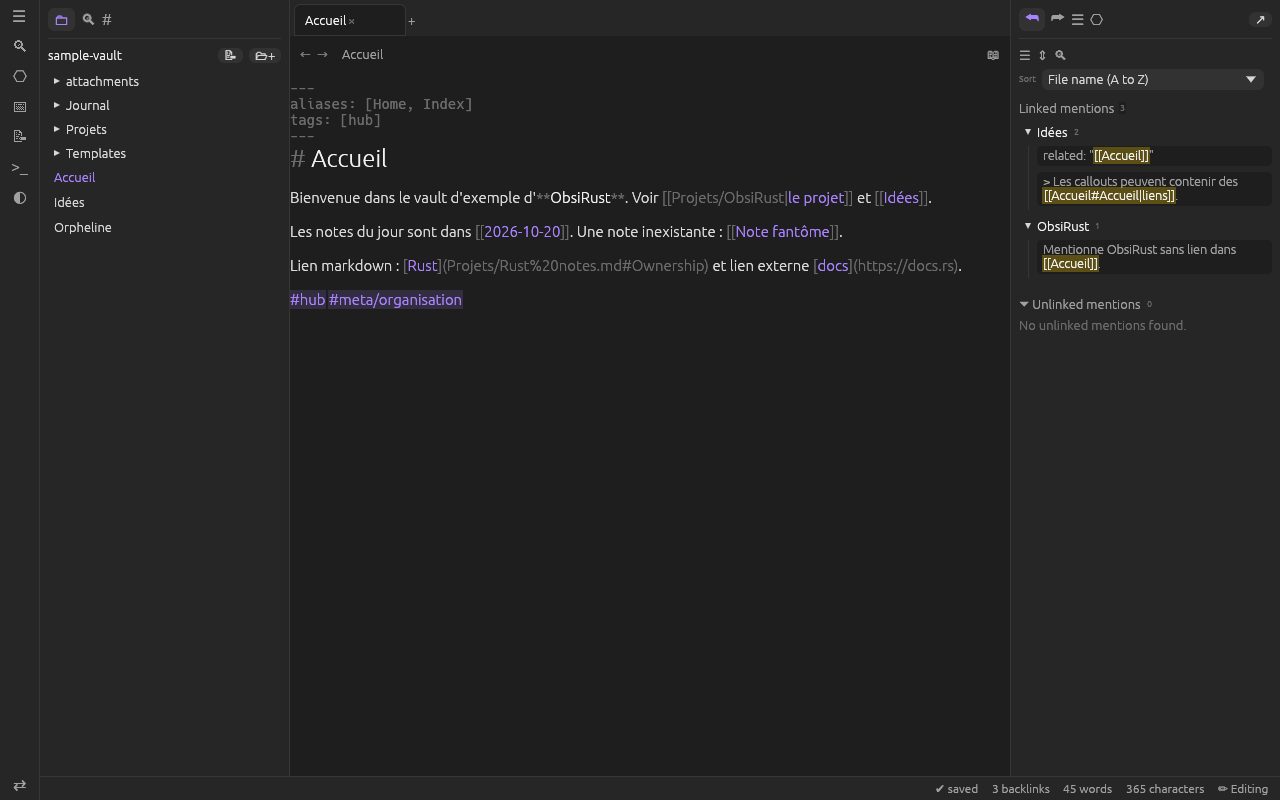
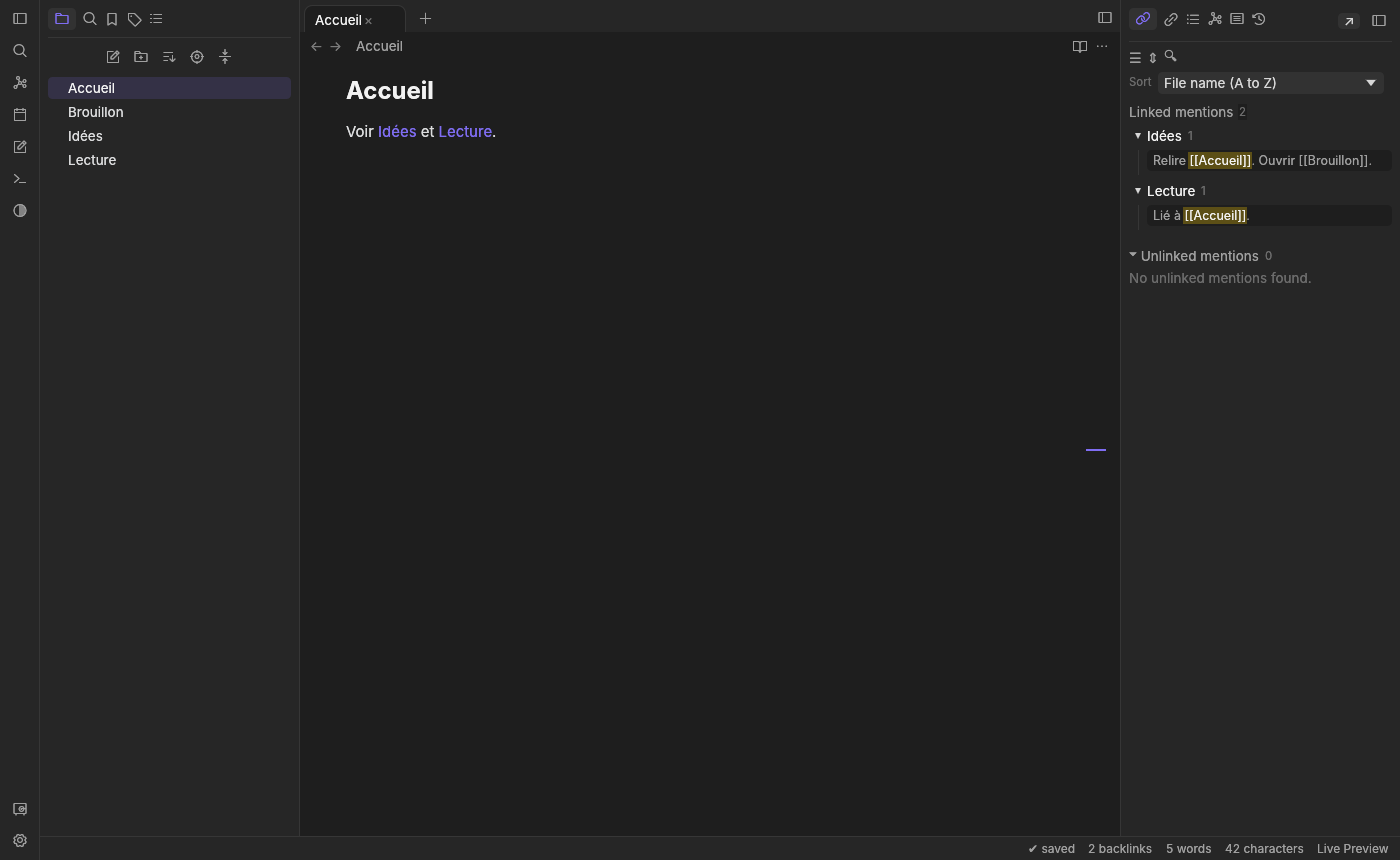
Show each feature on the home page, and retake the graph.
The home page is a sequence of blocks instead of a numbered list: a full-width capture, a mode triptych, alternating splits, the typed terminal, then a stamped “not yet” band. Captions no longer name repository paths. The graph and linked-mentions captures come from a temporary vault with four notes, so neither Canvas nor ObsiRust appears. Download buttons stay on the Releases page because every asset name includes the version.

diff --git a/site/src/data/features.ts b/site/src/data/features.ts
@@ -138,8 +138,8 @@ export const features: Feature[] = [
         src: "/media/live-preview-light.png",
         alt: liveAlt,
         caption: {
-          fr: "Vault d’exemple, thème clair. Fichier du dépôt : `crates/oxi-app/screenshots/live-preview-light.png`.",
-          en: "Sample vault, light theme. Repository file: `crates/oxi-app/screenshots/live-preview-light.png`.",
+          fr: "Thème clair : explorateur, note Idées, mentions liées.",
+          en: "Light theme: file tree, the Idées note, linked mentions.",
         },
       },
     ],
@@ -176,10 +176,10 @@ export const features: Feature[] = [
     },
     tech: {
       fr: [
-        "La bascule est dans l’en-tête de la note. Le fondu ci-dessus alterne trois captures du même écran : `modes-live.png`, `modes-source.png`, `modes-reading.png`. Sans mouvement, les trois images restent l’une sous l’autre.",
+        "La bascule est dans l’en-tête de la note. Le fondu alterne trois captures du même écran. Sans mouvement, les trois images restent l’une sous l’autre.",
       ],
       en: [
-        "The switch sits in the note header. The fade above alternates three captures of the same screen: `modes-live.png`, `modes-source.png`, `modes-reading.png`. Without motion, the three images stay stacked.",
+        "The switch sits in the note header. The fade alternates three captures of the same screen. Without motion, the three images stay stacked.",
       ],
     },
     demo: "modes",
@@ -251,35 +251,33 @@ export const features: Feature[] = [
     },
     tech: {
       fr: [
-        "Sur la capture du graphe, un nœud s’intitule Canvas. C’est un titre de note dans cette capture, pas le tableau blanc Canvas, qui n’est pas dans l’application.",
-        "Filtres visibles sur la capture : étiquettes, pièces jointes, fichiers existants, orphelines, groupes, forces (centre, répulsion, lien, distance).",
+        "Le panneau de filtres et de forces (étiquettes, pièces jointes, fichiers existants, orphelines, groupes) est dans la vue. Sur cette capture il est fermé : on voit les quatre notes et leurs liens.",
       ],
       en: [
-        "On the graph capture, one node is titled Canvas. That is a note title in this capture, not the Canvas whiteboard, which is not in the application.",
-        "Filters visible on the capture: tags, attachments, existing files, orphans, groups, forces (center, repulsion, link, distance).",
+        "The filter and forces panel (tags, attachments, existing files, orphans, groups) is part of the view. On this capture it is closed: the four notes and their links are what show.",
       ],
     },
     shots: [
       {
         src: "/media/graph.png",
         alt: {
-          fr: "Graphe sombre : nœuds Accueil, Idées, ObsiRust, Rust notes, 2026-10-20, Note fantôme et Canvas, avec le panneau de filtres et de forces.",
-          en: "Dark graph: nodes Accueil, Idées, ObsiRust, Rust notes, 2026-10-20, Note fantôme and Canvas, with the filter and forces panel.",
+          fr: "Graphe sombre : Brouillon, Idées, Accueil et Lecture, reliés. L’explorateur liste les mêmes notes.",
+          en: "Dark graph: Brouillon, Idées, Accueil and Lecture, linked. The file tree lists the same notes.",
         },
         caption: {
-          fr: "Graphe. Fichier : `screenshots/graph.png`. Le nœud Canvas est un titre de cette capture.",
-          en: "Graph. File: `screenshots/graph.png`. The Canvas node is a title in this capture.",
+          fr: "Quatre notes, et les liens entre elles.",
+          en: "Four notes, and the links between them.",
         },
       },
       {
         src: "/media/backlinks.png",
         alt: {
-          fr: "Note Accueil et panneau Linked mentions : extraits depuis Idées et ObsiRust, bandeau à 3 backlinks.",
-          en: "Accueil note and the Linked mentions panel: excerpts from Idées and ObsiRust, status bar at 3 backlinks.",
+          fr: "Note Accueil en Live Preview, panneau Linked mentions : extraits depuis Idées et Lecture, bandeau à 2 backlinks.",
+          en: "Accueil in Live Preview, Linked mentions panel: excerpts from Idées and Lecture, status bar at 2 backlinks.",
         },
         caption: {
-          fr: "Mentions liées. Fichier : `screenshots/backlinks.png`.",
-          en: "Linked mentions. File: `screenshots/backlinks.png`.",
+          fr: "Deux mentions liées, depuis Idées et Lecture.",
+          en: "Two linked mentions, from Idées and Lecture.",
         },
       },
     ],
@@ -318,12 +316,12 @@ export const features: Feature[] = [
       fr: [
         "Tout passe par le binaire `git` du système, dans un fil à part. L’interface ne se bloque pas dessus. Les réglages du vault sont dans `.obsidian/oxinote-git.json`.",
         "Quatre cases de `.gitignore` : ignorer la configuration `.obsidian`, les pièces jointes lourdes (`*.pdf`, `*.mp4`, `*.zip`), la corbeille, l’état de l’espace de travail.",
-        "Le défilement de la première image est une animation sur la capture `git-history.png`. Sans mouvement, l’image est entière.",
+        "Le défilement de la première image est une animation sur la capture. Sans mouvement, l’image est entière.",
       ],
       en: [
         "Everything goes through the system `git` binary, on a side thread. The interface does not block on it. Per-vault settings live in `.obsidian/oxinote-git.json`.",
         "Four `.gitignore` toggles: ignore `.obsidian` configuration, heavy attachments (`*.pdf`, `*.mp4`, `*.zip`), the trash, and the workspace state.",
-        "The pan on the first image is an animation of the capture `git-history.png`. Without motion, the whole image is shown.",
+        "The pan on the first image is an animation of the capture. Without motion, the whole image is shown.",
       ],
     },
     demo: "pan",
@@ -335,8 +333,8 @@ export const features: Feature[] = [
           en: "History of Accueil: three dated vault backup commits, comparison with the current version, an added line in green, Restore this version button.",
         },
         caption: {
-          fr: "Historique d’une note. Fichier : `crates/oxi-app/screenshots/git-history.png`.",
-          en: "History of one note. File: `crates/oxi-app/screenshots/git-history.png`.",
+          fr: "Trois commits, le diff, et le bouton pour restaurer.",
+          en: "Three commits, the diff, and the button to restore.",
         },
       },
       {
@@ -346,8 +344,8 @@ export const features: Feature[] = [
           en: "Backup (Git) window: automatic backup, interval in minutes, backup on quit, message vault backup: {{date}}, gitignore toggles.",
         },
         caption: {
-          fr: "Réglages. Fichier : `crates/oxi-app/screenshots/git-settings.png`.",
-          en: "Settings. File: `crates/oxi-app/screenshots/git-settings.png`.",
+          fr: "Sauvegarde automatique, intervalle, message de commit, gitignore.",
+          en: "Automatic backup, interval, commit message, gitignore.",
         },
       },
     ],
@@ -400,8 +398,8 @@ export const features: Feature[] = [
           en: "PDF tab test.pdf, page 1 of 3, zoom 82%, Fit to width and Open in default app buttons. The Linked mentions panel lists links to this PDF.",
         },
         caption: {
-          fr: "Lecteur en onglet. Fichier : `crates/oxi-app/screenshots/pdf-tab.png`.",
-          en: "Reader in a tab. File: `crates/oxi-app/screenshots/pdf-tab.png`.",
+          fr: "Page 1, zoom, largeur de page, ouverture dans l’application du système.",
+          en: "Page 1, zoom, fit to width, open in the system app.",
         },
       },
       {
@@ -411,8 +409,8 @@ export const features: Feature[] = [
           en: "Reading note with an embedded PDF on page 2, tooltip Open test.pdf at page 2.",
         },
         caption: {
-          fr: "Embed. Fichier : `crates/oxi-app/screenshots/pdf-embed.png`.",
-          en: "Embed. File: `crates/oxi-app/screenshots/pdf-embed.png`.",
+          fr: "Le PDF embarqué s’ouvre à la page 2.",
+          en: "The embedded PDF opens on page 2.",
         },
       },
     ],
@@ -552,6 +550,56 @@ export const features: Feature[] = [
     shots: [],
   },
 ];
+
+/** Two short lines and a link label for the home blocks. */
+export const homeLines: Record<string, Record<Lang, [string, string]>> = {
+  vault: {
+    fr: ["On désigne le dossier.", "Les notes sont déjà des fichiers Markdown."],
+    en: ["Point it at the folder.", "The notes are already Markdown files."],
+  },
+  modes: {
+    fr: ["Live Preview habille le Markdown.", "Source le montre brut, Lecture le rend."],
+    en: ["Live Preview dresses the Markdown.", "Source shows it raw, Reading renders it."],
+  },
+  graph: {
+    fr: ["Les notes se posent, les liens les retiennent.", "À côté, les mentions liées disent qui cite."],
+    en: ["Notes settle, links hold them.", "Beside them, linked mentions say who cites."],
+  },
+  git: {
+    fr: ["Le Git de la machine enregistre le vault.", "Les commits ne partent nulle part."],
+    en: ["The machine’s Git records the vault.", "The commits go nowhere else."],
+  },
+  pdf: {
+    fr: ["Un lien ouvre le PDF dans un onglet.", "Ce n’est pas un export : export écrit du HTML."],
+    en: ["A link opens the PDF in a tab.", "This is not an export: export writes HTML."],
+  },
+  cli: {
+    fr: ["Le dossier du vault est le premier argument.", "stats, search, liens, et un site HTML."],
+    en: ["The vault folder is the first argument.", "stats, search, links, and an HTML site."],
+  },
+  install: {
+    fr: ["Les fichiers sont sur la page Releases.", "Une mise à jour est comparée à SHA256SUMS.txt."],
+    en: ["The files are on the Releases page.", "An update is compared to SHA256SUMS.txt."],
+  },
+};
+
+export const homeMore: Record<Lang, string> = {
+  fr: "Lire la page",
+  en: "Read the page",
+};
+
+export const laterBand = {
+  fr: {
+    title: "Pas encore là.",
+    text: "Bases, Canvas, les citations, le Git distant.",
+    more: "La liste",
+  },
+  en: {
+    title: "Not there yet.",
+    text: "Bases, Canvas, citations, remote Git.",
+    more: "The list",
+  },
+};
 
 export function otherLang(lang: Lang): Lang {
   return lang === "fr" ? "en" : "fr";

diff --git a/site/src/styles/global.css b/site/src/styles/global.css
@@ -193,7 +193,7 @@ a:hover { color: var(--rust-deep); }
   background-size: cover;
   background-position: center right;
   color: var(--verdi-ink);
-  padding: 4.2rem 0 7.5rem;
+  padding: 4.2rem 0 4.6rem;
 }
 .hero a { color: #f3c7b4; }
 
@@ -272,57 +272,100 @@ h1 {
   color: var(--muted);
 }
 
-.hero-shot {
-  width: min(var(--measure), calc(100% - 2rem));
-  margin: -4.5rem auto 0;
-  position: relative;
-  z-index: 1;
-}
-.hero-shot img, .shot img, .modes img, .pan img {
+.shot img, .modes img, .pan img, .home-full img, .triptych img {
   display: block;
   width: 100%;
   height: auto;
   background: #ece6dc;
 }
-.hero-shot img, .shot img {
+.shot img, .home-full img, .triptych img {
   outline: 1px solid rgba(156, 59, 34, 0.45);
   box-shadow: 0 18px 50px rgba(28, 22, 18, 0.16);
 }
 
 .sheet { padding: 3.2rem 0 1rem; }
 
+.home-block, .home-split {
+  width: min(76rem, calc(100% - 2rem));
+  margin: 4.2rem auto;
+}
+.home-full { margin: -4.2rem 0 1.4rem; }
+.home-copy h2 {
+  font-size: clamp(2rem, 4vw, 3.1rem);
+  font-weight: 600;
+  line-height: 1.05;
+  letter-spacing: -0.02em;
+  margin: 0 0 0.7rem;
+  max-width: 16ch;
+}
+.home-copy p {
+  margin: 0.2rem 0;
+  max-width: 34rem;
+  color: var(--muted);
+}
+.home-more {
+  margin-top: 0.9rem !important;
+  font-family: var(--mono);
+  font-size: 0.78rem;
+  letter-spacing: 0.08em;
+  text-transform: uppercase;
+}
+.home-split {
+  display: grid;
+  grid-template-columns: minmax(16rem, 0.8fr) 1.3fr;
+  gap: 2.2rem 2.8rem;
+  align-items: center;
+}
+.home-split.flip { grid-template-columns: 1.3fr minmax(16rem, 0.8fr); }
+.home-split.flip .home-copy { order: 2; }
+.home-pan { margin-top: 0; }
+.triptych {
+  display: grid;
+  grid-template-columns: 1fr 1fr 1fr;
+  gap: 0.7rem;
+  margin-top: 1.4rem;
+}
+.triptych figcaption {
+  text-transform: uppercase;
+  letter-spacing: 0.08em;
+}
+.later-band {
+  margin-top: 1rem;
+  background-color: var(--verdi-deep);
+  background-image:
+    linear-gradient(100deg, rgba(8, 28, 27, 0.9), rgba(8, 28, 27, 0.72)),
+    url("/media/logo.jpg");
+  background-size: cover;
+  background-position: center;
+  color: var(--verdi-ink);
+  padding: 4.2rem 0 4.6rem;
+}
+.later-band h2 {
+  font-size: clamp(2.4rem, 5vw, 4rem);
+  font-weight: 700;
+  line-height: 0.95;
+  margin: 1rem 0 0.6rem;
+  max-width: 12ch;
+}
+.later-band .lede { color: var(--verdi-muted); }
+.later-band a { color: #f3c7b4; }
+.stamp {
+  display: inline-block;
+  margin: 0;
+  border: 2px solid #e08a62;
+  color: #e08a62;
+  font-family: var(--mono);
+  font-size: 0.78rem;
+  letter-spacing: 0.22em;
+  text-transform: uppercase;
+  padding: 0.4rem 0.7rem;
+  transform: rotate(-7deg);
+}
+
 .page-head { padding-top: 2.4rem; }
 .page-head h1 { max-width: 16ch; font-size: clamp(2.4rem, 5vw, 4.2rem); }
 
 .body p { max-width: 40rem; }
-
-.index { list-style: none; margin: 2.4rem 0 0; padding: 0; }
-.index li { border-top: 1px solid var(--rule); }
-.index li:last-child { border-bottom: 1px solid var(--rule); }
-.index a {
-  display: grid;
-  grid-template-columns: 3.2rem 1fr;
-  gap: 0.8rem;
-  padding: 1rem 0;
-  text-decoration: none;
-  color: inherit;
-}
-.index a:hover strong { color: var(--rust); }
-.index .num {
-  font-family: var(--mono);
-  font-size: 0.75rem;
-  letter-spacing: 0.08em;
-  color: var(--rust);
-  padding-top: 0.4rem;
-}
-.index strong { display: block; font-size: 1.55rem; font-weight: 600; line-height: 1.15; }
-.index em {
-  display: block;
-  margin-top: 0.25rem;
-  font-style: italic;
-  color: var(--muted);
-  font-size: 1.05rem;
-}
 
 .shot { margin: 1.6rem 0 0.4rem; }
 figcaption {
@@ -398,6 +441,11 @@ code {
   right: 1rem;
   top: 1rem;
 }
+.term-window {
+  max-height: 24rem;
+  overflow: auto;
+}
+.home-split .fine { color: var(--muted); }
 
 .fold {
   margin-top: 1rem;
@@ -533,7 +581,13 @@ code {
   .menu { display: block; }
   .tools .gh { display: none; }
   h1 { max-width: none; }
-  .hero { padding-top: 2.6rem; padding-bottom: 6rem; }
+  .hero { padding-top: 2.6rem; padding-bottom: 4.2rem; }
+  .home-split, .home-split.flip {
+    grid-template-columns: 1fr;
+  }
+  .home-split.flip .home-copy { order: 0; }
+  .triptych { grid-template-columns: 1fr; }
+  .home-full { margin-top: 1.6rem; }
 }
 
 @media (prefers-reduced-motion: no-preference) {
@@ -551,13 +605,13 @@ code {
   .modes figure { grid-area: 1 / 1; }
   .modes img { animation: mode 18s infinite both; }
   .modes figure:nth-child(1) img { animation-delay: 0s; }
-  .modes figure:nth-child(2) img { animation-delay: -6s; }
-  .modes figure:nth-child(3) img { animation-delay: -12s; }
+  .modes figure:nth-child(2) img { animation-delay: -12s; }
+  .modes figure:nth-child(3) img { animation-delay: -6s; }
   .modes figcaption { display: none; }
   .mode-names span { animation: mode 18s infinite both; }
   .mode-names span:nth-child(1) { animation-delay: 0s; }
-  .mode-names span:nth-child(2) { animation-delay: -6s; }
-  .mode-names span:nth-child(3) { animation-delay: -12s; }
+  .mode-names span:nth-child(2) { animation-delay: -12s; }
+  .mode-names span:nth-child(3) { animation-delay: -6s; }
   .pan img { animation: pan 16s ease-in-out infinite alternate; }
 }
 

diff --git a/site/public/scripts/site.js b/site/public/scripts/site.js
@@ -28,6 +28,7 @@
       }
       i = Math.min(full.length, i + step);
       live.textContent = full.slice(0, i);
+      if (box.scrollHeight > box.clientHeight) box.scrollTop = box.scrollHeight;
       if (i < full.length) window.setTimeout(tick, 14);
     }
     tick();
